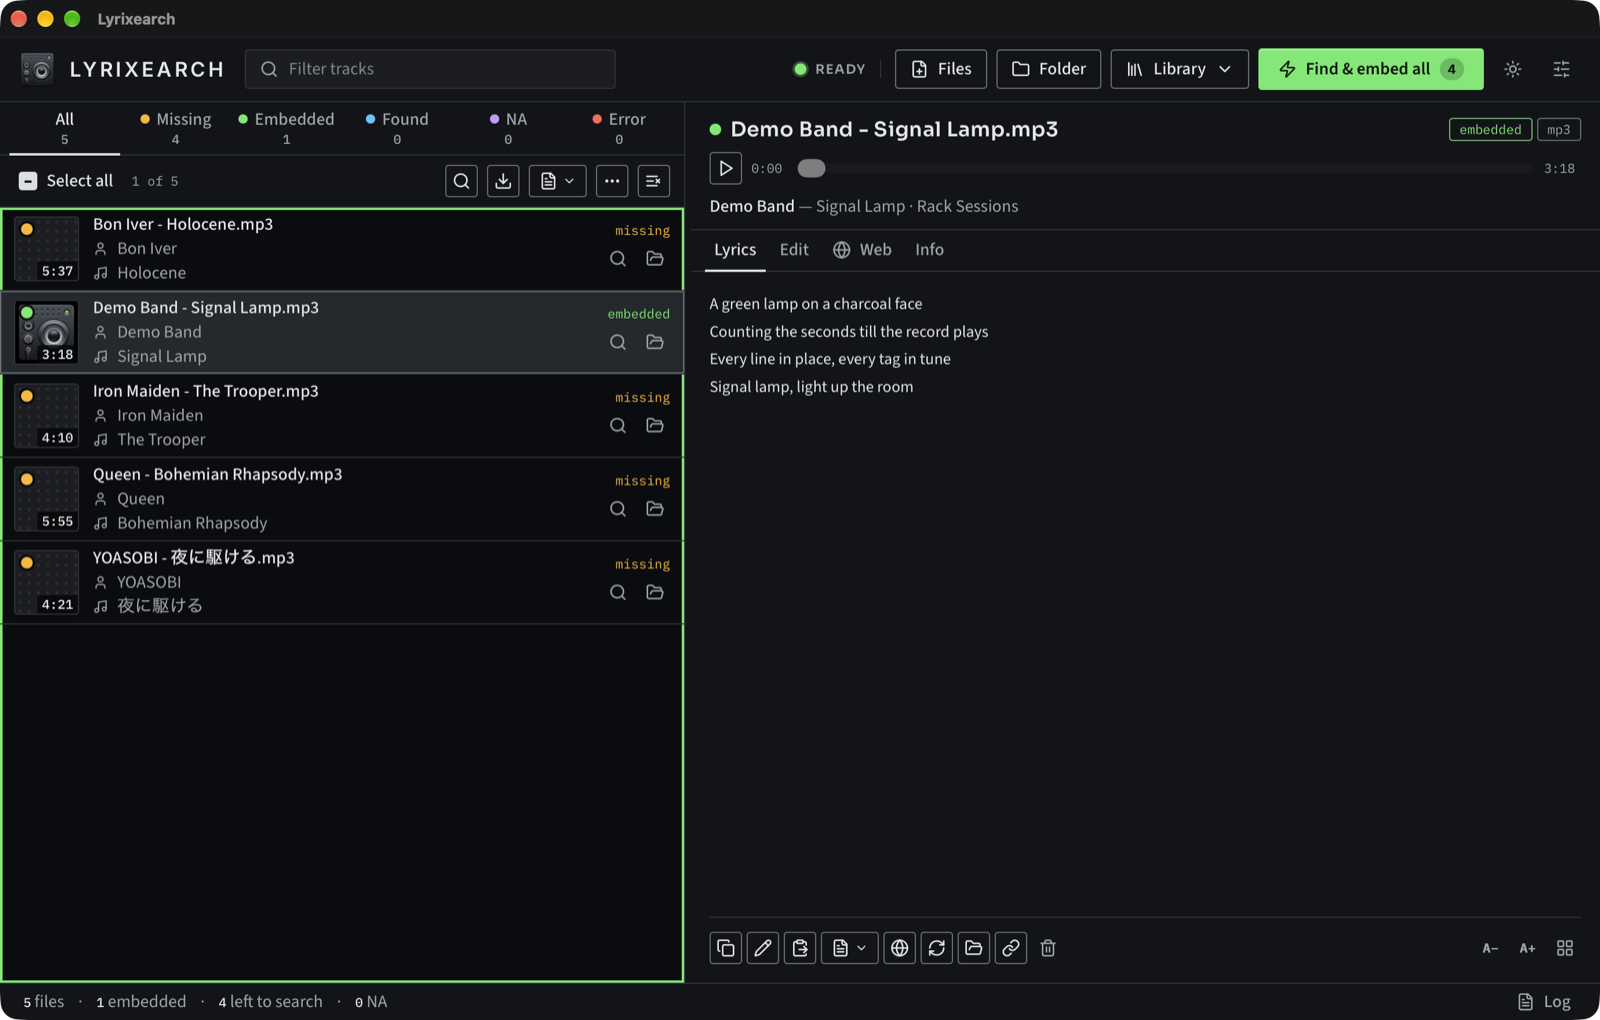
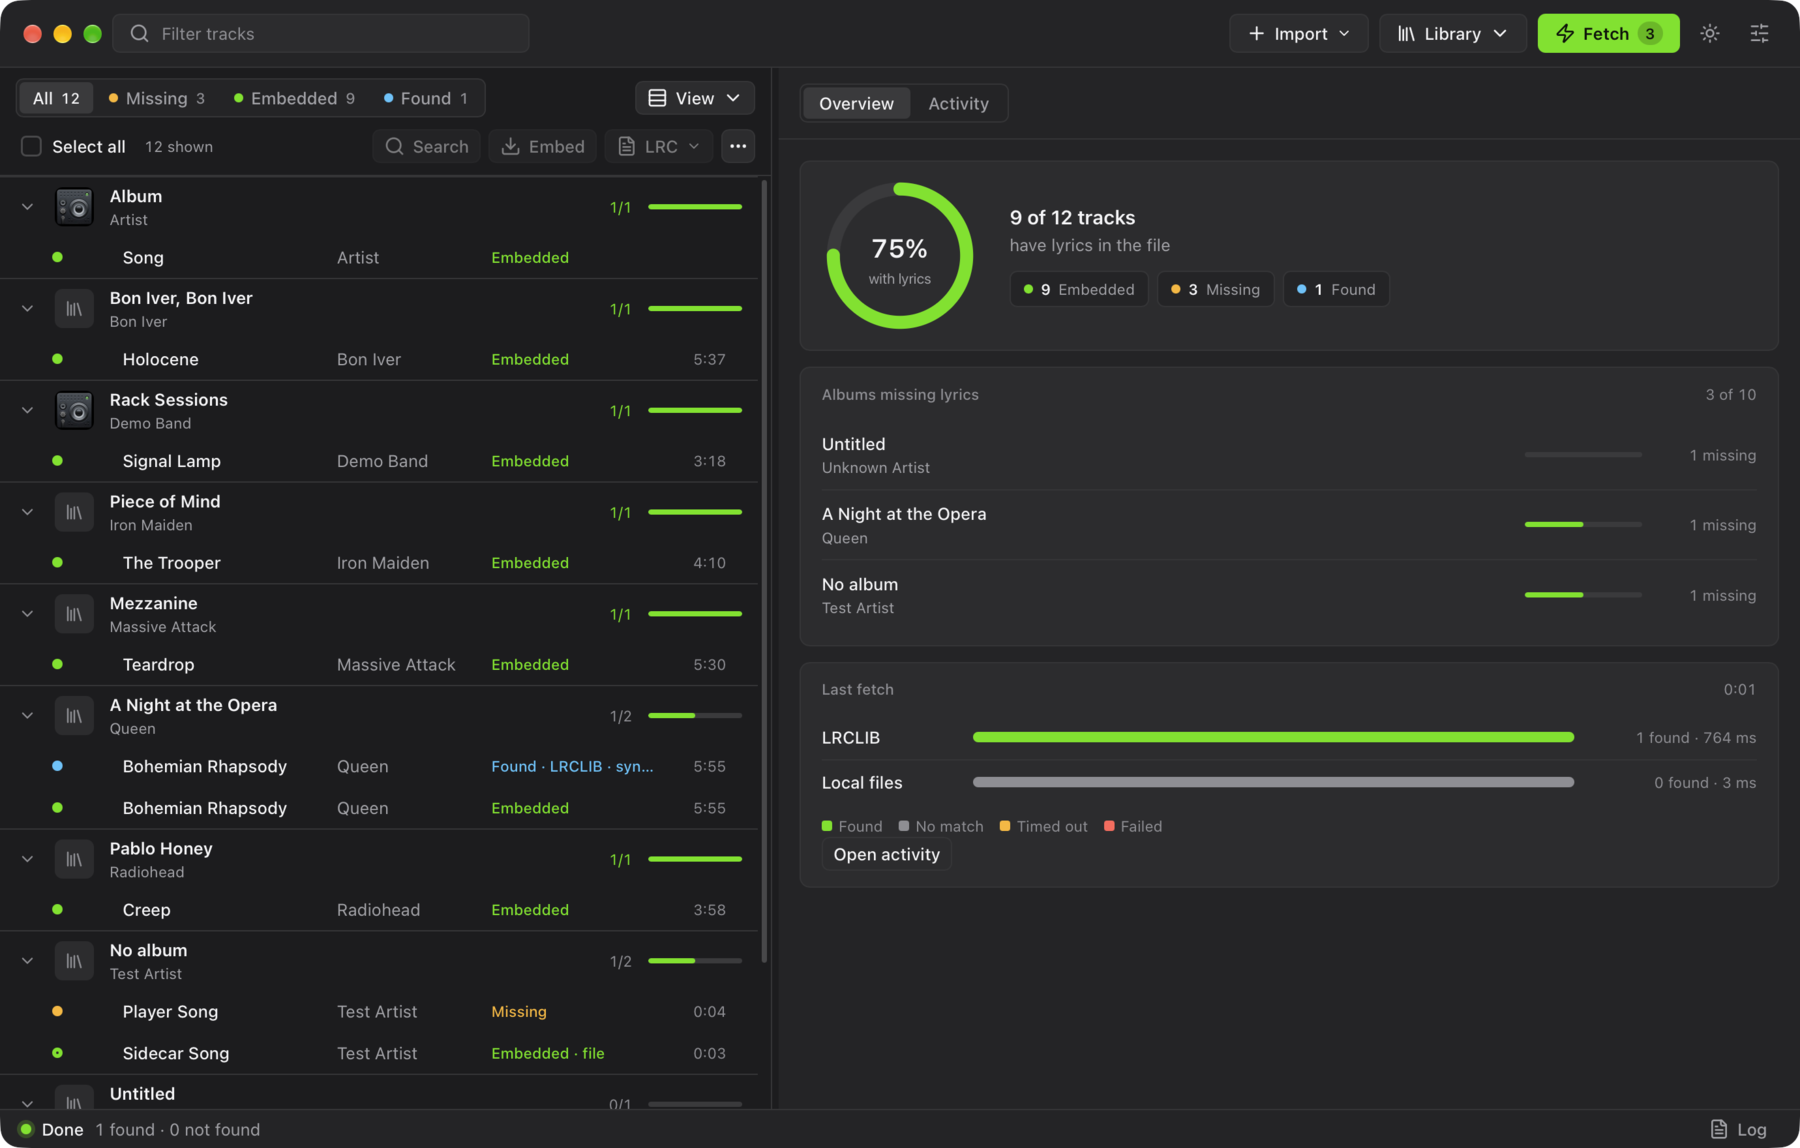
docs - readme: new screenshot and wording for the current layout

diff --git a/README.md b/README.md
@@ -52,9 +52,9 @@
 </div>
 
 <p align="center">
-  <img src="assets/screenshot-app.png" width="900" alt="The Lyrixearch desktop app: a track list with a coloured lamp per track (four amber 'missing', one green 'embedded'), and the selected track's player and embedded lyrics in the inspector on the right.">
+  <img src="assets/screenshot-app.png" width="900" alt="Lyrixearch on macOS, with segmented status filters and tracks grouped by album on the left, and lyrics coverage and albums missing lyrics in the Overview pane on the right.">
   <br>
-  <sub>The desktop app on macOS. Demo folder of silent test tracks; the selected track's lyrics are demo text.</sub>
+  <sub>The macOS desktop app in Albums view, showing a demo library.</sub>
 </p>
 
 ---
@@ -96,10 +96,10 @@ ln -s "$PWD/target/release/lyrixearch" ~/.local/bin/lyrixearch
 | | Feature |
 | --- | --- |
 | <img src="https://api.iconify.design/mdi/folder-multiple-plus-outline.svg?color=%235fe27f" height="20" alt=""> | **Add music** by dropping folders or files on the window (or the app icon on macOS), **Files** / **Folder**, or the command line. Every subfolder is scanned. **Library** remembers folders and re-scans them in one go. |
-| <img src="https://api.iconify.design/mdi/playlist-music-outline.svg?color=%235fe27f" height="20" alt=""> | **Track list** with cover art, duration and a colored lamp per state. Tabs filter by **All, Missing, Embedded, Found, NA, Error**; select-all, **Search**, **Embed**, **Files**, **More** and **Drop embedded** act on the selection. |
-| <img src="https://api.iconify.design/mdi/lightning-bolt-outline.svg?color=%235fe27f" height="20" alt=""> | **Find &amp; embed all**: the green top-bar button searches every track currently listed and embeds what it finds. A **Replace existing** switch decides whether tracks that already have lyrics are searched too. |
+| <img src="https://api.iconify.design/mdi/playlist-music-outline.svg?color=%235fe27f" height="20" alt=""> | **Track list** with cover art, duration and a colored lamp per state. Filter by **All, Missing, Embedded, Found, No match, Failed**. Use **View** to sort or switch between **Comfortable**, **Compact** and **Albums**. |
+| <img src="https://api.iconify.design/mdi/lightning-bolt-outline.svg?color=%235fe27f" height="20" alt=""> | **Fetch**: the green top-bar button searches the listed tracks and embeds what it finds. A **Replace existing** switch decides whether tracks that already have lyrics are searched too. |
 | <img src="https://api.iconify.design/mdi/file-music-outline.svg?color=%235fe27f" height="20" alt=""> | **Files menu**: format **Auto / .lrc / .txt**, then **Embed from file** (the file named like the track) or **Write to file**. |
-| <img src="https://api.iconify.design/mdi/play-circle-outline.svg?color=%235fe27f" height="20" alt=""> | **Details**: compact player, then **Lyrics**, **Edit**, **Web** and **Info**. Copy, paste from clipboard, edit, reveal, remove. Buttons can show icons, text or both. |
+| <img src="https://api.iconify.design/mdi/play-circle-outline.svg?color=%235fe27f" height="20" alt=""> | **Right pane**: select a track to see its player and **Lyrics**, **Edit**, **Web** and **Details** tabs. With no track selected, **Overview** shows lyrics coverage and **Activity** shows fetch progress and results. |
 | <img src="https://api.iconify.design/mdi/web.svg?color=%235fe27f" height="20" alt=""> | **Web search** inside the window (Google, Bing, DuckDuckGo, Yahoo, Yandex, Brave AI) in phone layout so pages fit; Google AI Mode opens in your own browser. On Linux all results open in your browser. |
 
 <details>
@@ -110,8 +110,8 @@ ln -s "$PWD/target/release/lyrixearch" ~/.local/bin/lyrixearch
 | <img src="https://api.iconify.design/mdi/circle.svg?color=%235fe27f" height="12" alt=""> green | lyrics embedded |
 | <img src="https://api.iconify.design/mdi/circle.svg?color=%23e0b040" height="12" alt=""> amber | missing lyrics |
 | <img src="https://api.iconify.design/mdi/circle.svg?color=%2356b4f0" height="12" alt=""> blue | found, not embedded yet |
-| <img src="https://api.iconify.design/mdi/circle.svg?color=%23b88af0" height="12" alt=""> purple | **NA**: no source had them |
-| <img src="https://api.iconify.design/mdi/circle.svg?color=%23f0675a" height="12" alt=""> red | error |
+| <img src="https://api.iconify.design/mdi/circle.svg?color=%23b88af0" height="12" alt=""> purple | **No match**: no source had them |
+| <img src="https://api.iconify.design/mdi/circle.svg?color=%23f0675a" height="12" alt=""> red | **Failed**: the search could not finish |
 
 </details>
 
